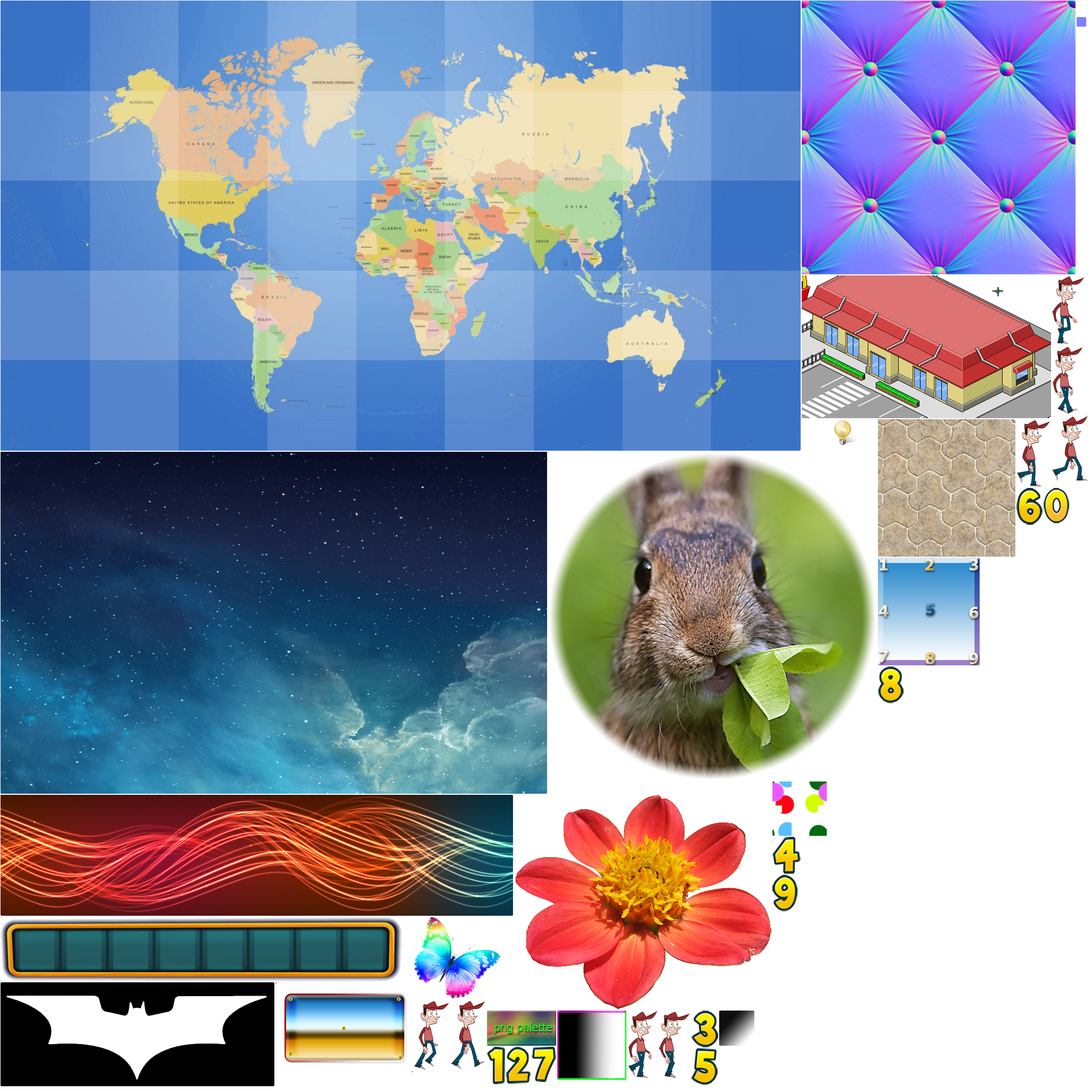
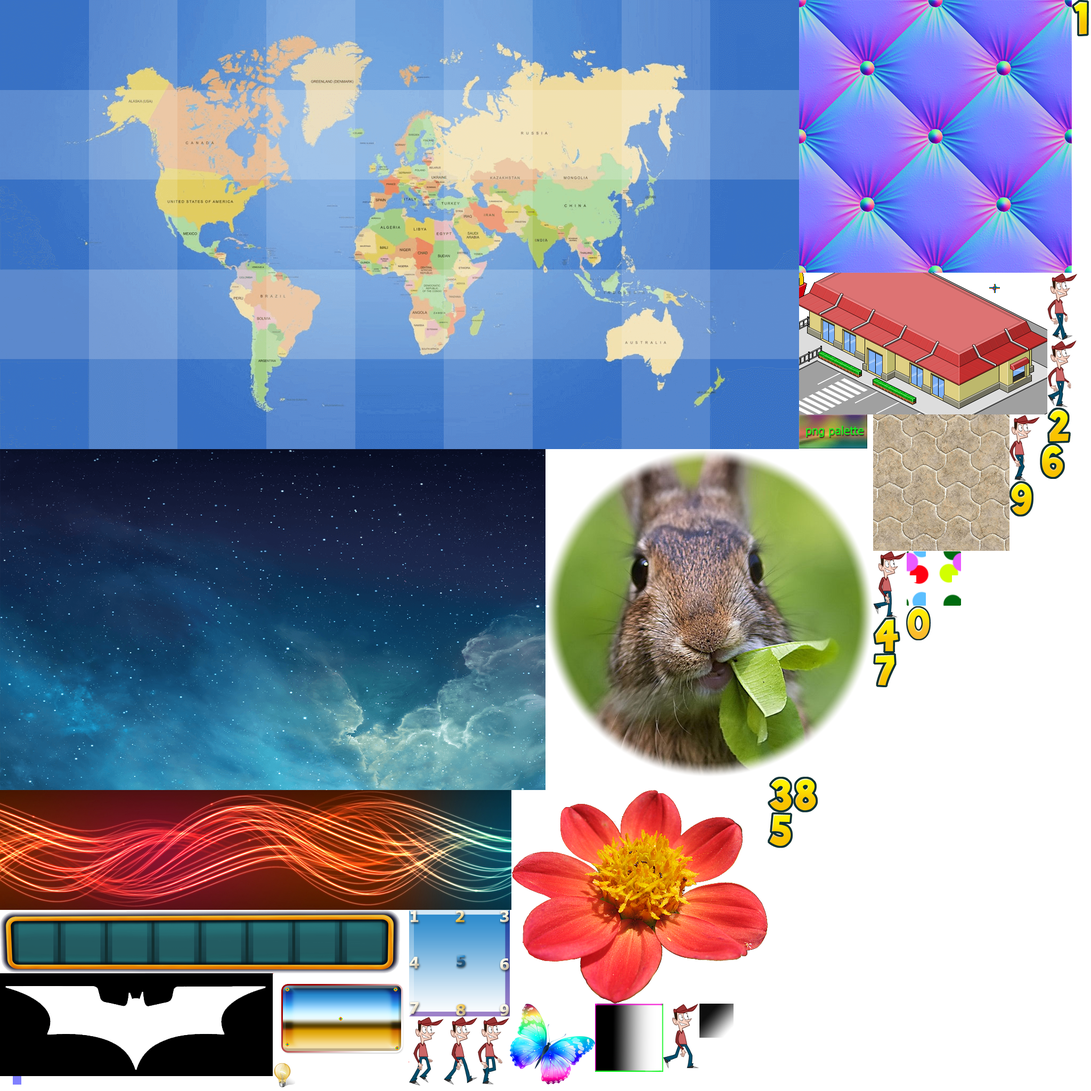
edges mode disabled by default

diff --git a/tools/resbuild/process_atlas.py b/tools/resbuild/process_atlas.py
@@ -354,7 +354,7 @@ def processRS(context, walker):
     border = as_int(image_el.getAttribute("border"))
 
     trim = as_bool(image_el.getAttribute("trim"), True)
-    extend = as_bool(image_el.getAttribute("extend"), True)
+    extend = as_bool(image_el.getAttribute("extend"), False)
     
     if not extend:
         pass
